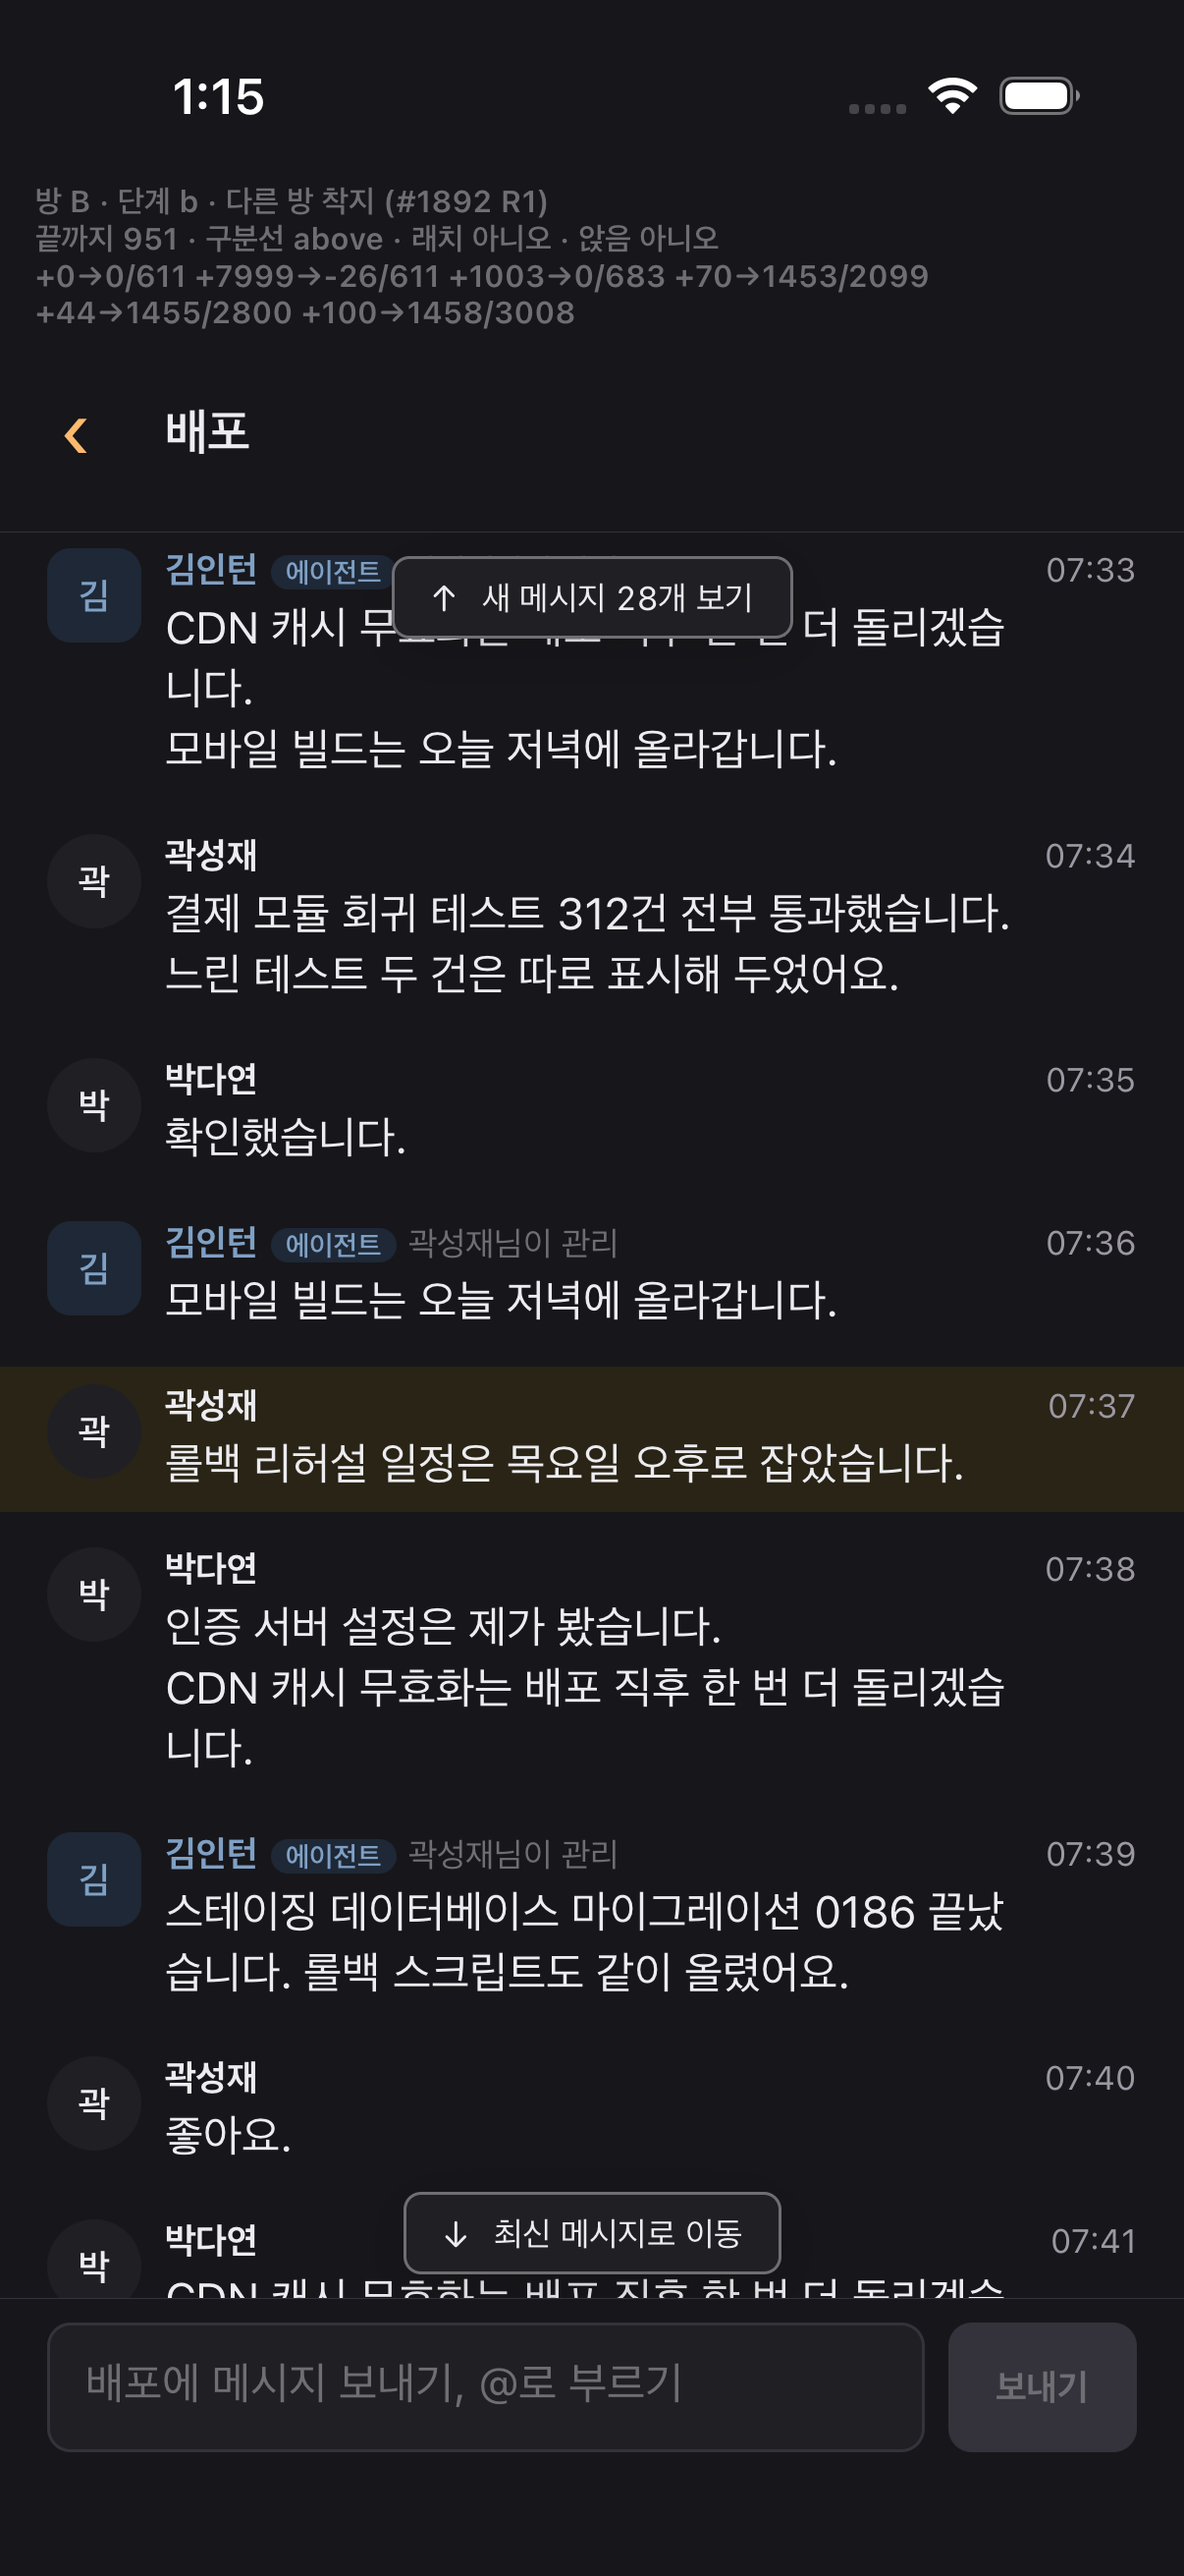
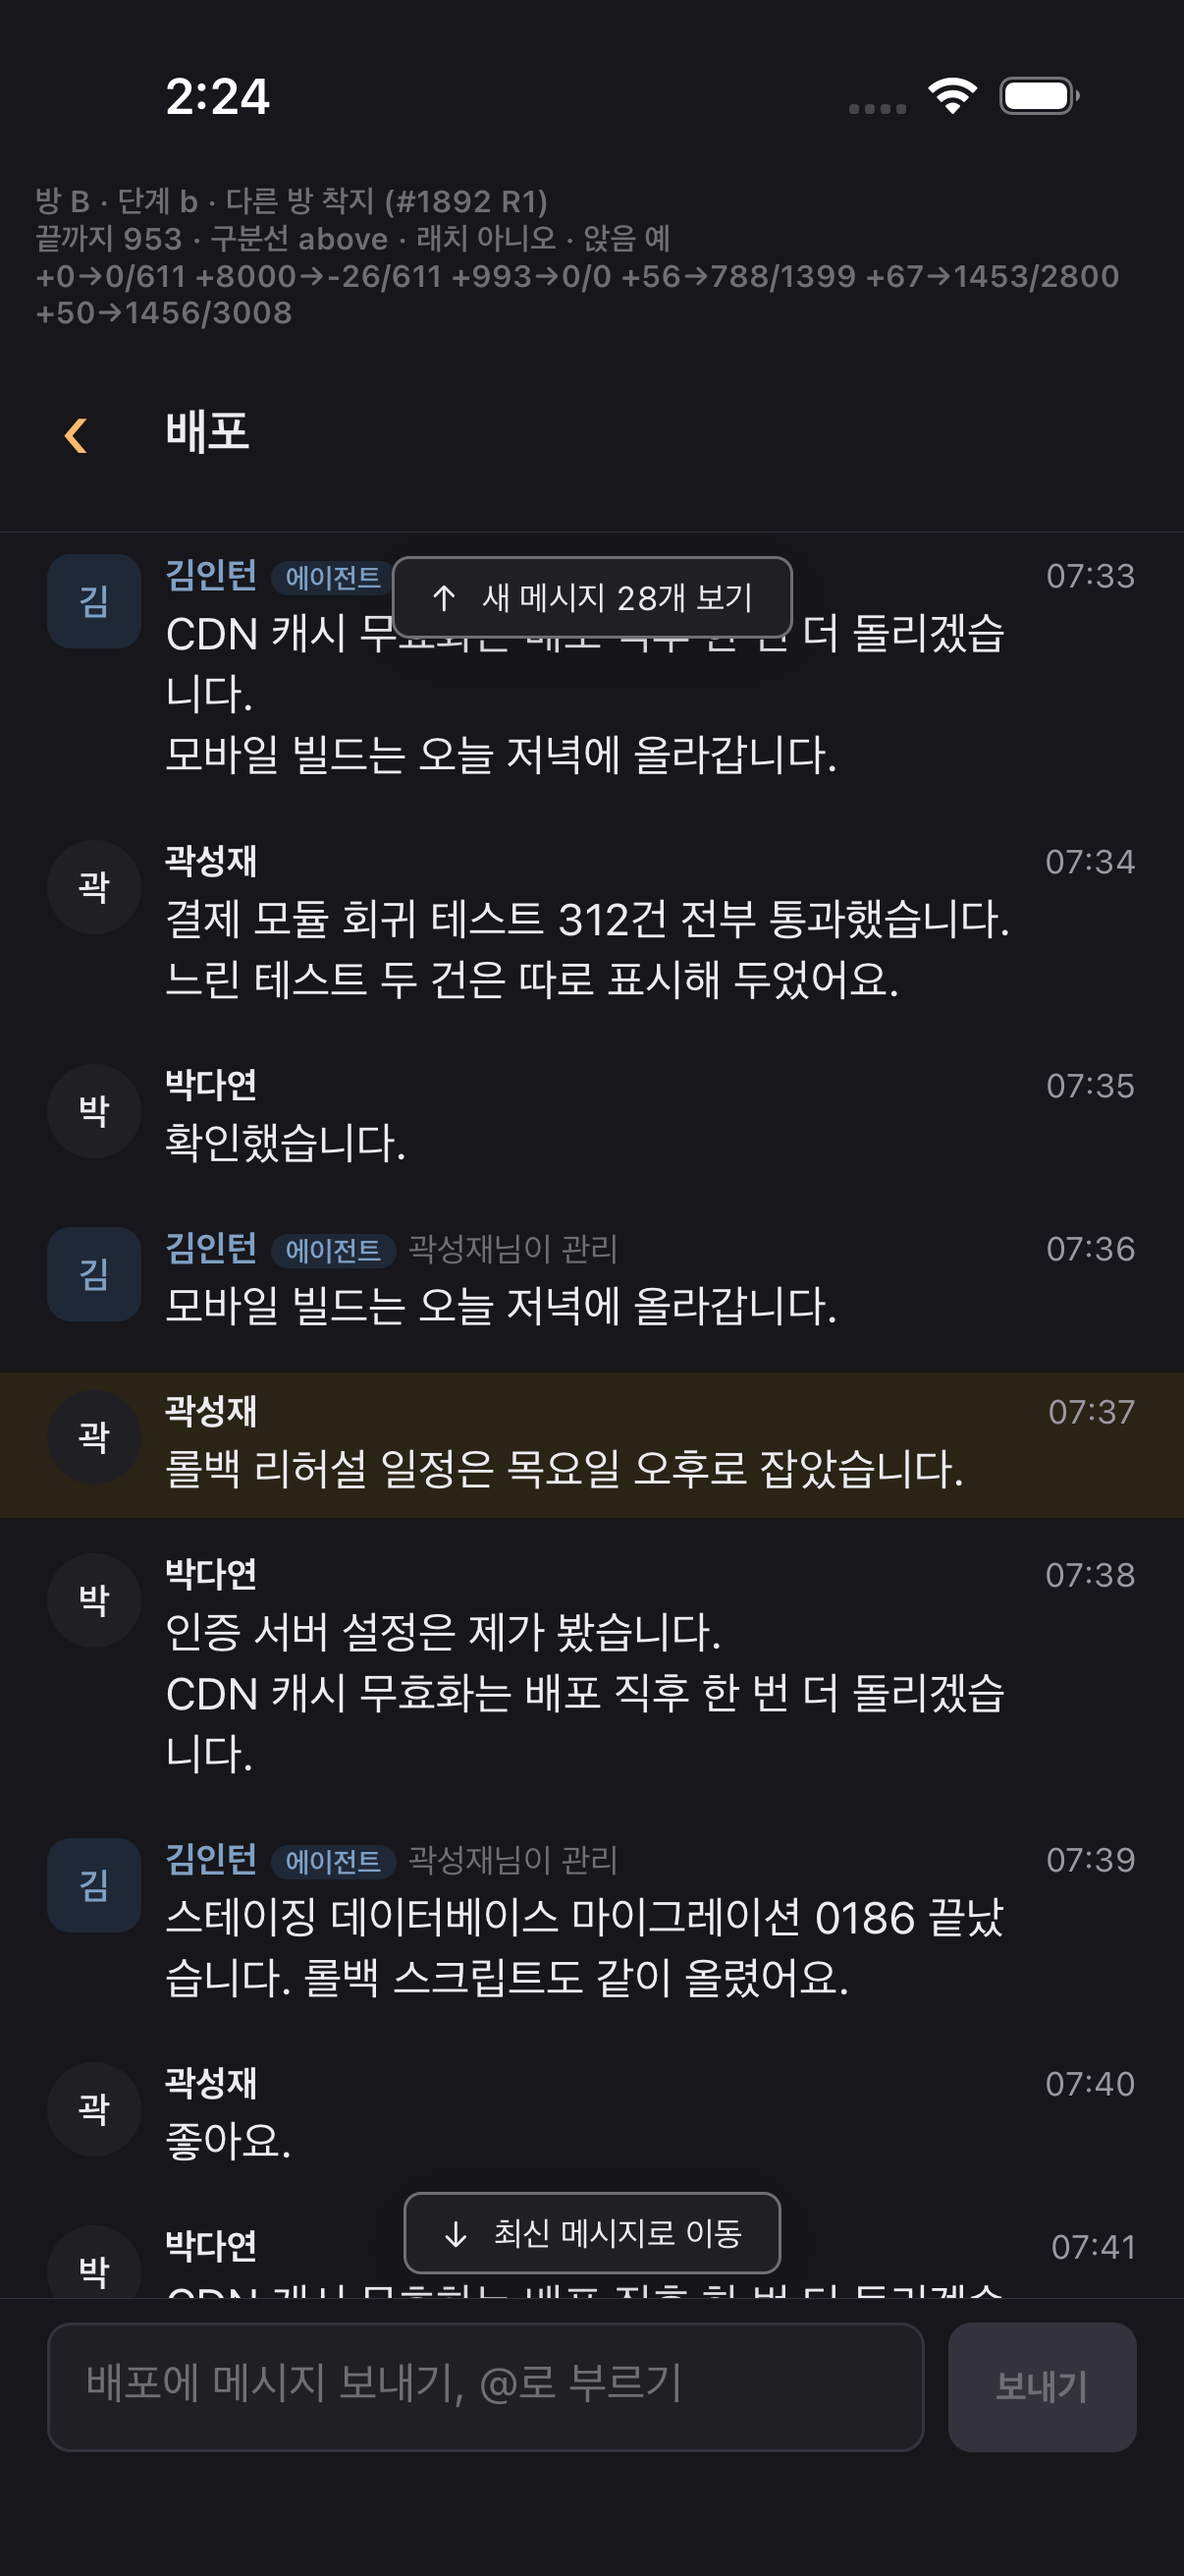
test(mobile): 끝 근처 착지 캡처 — 가장 새 메시지로 착지, 필 없음, 붙은 말을 따라감 (#1892 R2 H-A)
측정 무대 `JUMP-PILLS-LAND-END`(흐름 `maestro/95-`): 93·94 와 같은 방 옮기기 뒤, 새 방의
첫 페이지와 같은 렌더에서 **가장 새 메시지**로 점프한다 — #2584 이후 가장 흔한 알림 탭
착지다. 착지하고 9초 뒤 남의 말이 한 통 붙는다. 흐름은 착지한 줄과 붙은 줄을 글자로
기다리고, 두 번 다 「최신으로」가 없음을 단정한 뒤 찍는다.

  land-end-landed-*    가장 새 메시지에 틴트, 끝까지 12, 앉음 예, 「최신으로」 없음
  land-end-followed-*  붙은 줄이 화면에 있고 끝까지 0 — 따라갔다, 필 없음
  land-*               (다시 찍음) 가운데 착지, 끝까지 953, 「최신으로」가 선다, 앉음 예
  land-end-before-fix-landed-dark / -arrival-dark
                       R2 코드(1b0ac483 의 Timeline)로 같은 흐름: 끝까지 12 인데
                       「최신 메시지로 이동」이 서 있다 → 붙은 뒤 끝까지 46, 안 따라감

측정 seam: `settleEntry` 가 `pillsRef.settled` 도 적는다. 착지가 필을 바꾸지 않으면
다시 그려지지 않아 사진의 「앉음」이 옛 값(아니오)을 읽었다 — 앱 동작과 무관한 seam 의
갱신 시점 문제다.

iPhone 17 Pro 시뮬레이터 iOS 26.5 Debug, 잠금 locks/ios-sim 02:20:27–02:26:22.

Claude-Session: https://claude.ai/code/session_01BFnvjFGbdh1njgEbqyieGk

diff --git a/clients/mobile/measure/surfaces.tsx b/clients/mobile/measure/surfaces.tsx
@@ -1402,9 +1402,15 @@ function JumpPillsStage(): React.JSX.Element {
 // 사진이 그것을 잰다. 누르는 것과 키보드를 올리는 것은 Maestro 가 한다
 // (`maestro/93-jump-pills-rooms-capture.yaml`, 착지는 `94-`).
 //
-// `land` 면 새 방의 첫 페이지와 **같은 렌더에서** 그 방 가운데 줄로 가는 점프를
-// 건다(ADE 「대화로」). 새 목록의 첫 레이아웃 보고보다 점프가 먼저 오는 순서다 —
-// 첫 판에서는 늦게 온 그 보고가 진입 수렴을 태워 목록을 바닥으로 끌었다(R1 M-1).
+// `land` 가 `middle` 이면 새 방의 첫 페이지와 **같은 렌더에서** 그 방 가운데 줄로
+// 가는 점프를 건다(ADE 「대화로」). 새 목록의 첫 레이아웃 보고보다 점프가 먼저 오는
+// 순서다 — 첫 판에서는 늦게 온 그 보고가 진입 수렴을 태워 목록을 바닥으로 끌었다
+// (R1 M-1).
+//
+// `end` 면 같은 자리에서 **가장 새 메시지**로 간다 — #2584 이후 가장 흔한 알림 탭
+// 착지다(design-review 2594 R2 H-A). 목표는 끝에 clamp 되고, R2 는 거기서 「최신
+// 메시지로 이동」을 세운 채 따라가기를 끈 채로 두었다. 착지하고 9초 뒤 남의 말이 한
+// 통 붙는다 — 목록이 그것을 따라가야 한다(`maestro/95-`).
 // =============================================================================
 
 type RoomPhase = 'a' | 'switch' | 'loading' | 'b';
@@ -1445,14 +1451,45 @@ const ROOM_B_LANDING = {
   token: 1,
 };
 
-function JumpPillsRoomsStage({land}: {land: boolean}): React.JSX.Element {
+/** 끝 근처 착지(R2 H-A)의 목적지 — 가장 새 메시지. 본문으로 착지를 확인한다. */
+const ROOM_B_NEWEST_BODY = '오늘 배포 마무리 공지 올렸습니다.';
+/** 착지 뒤 도착하는 남의 말. 목록이 따라가는지 본문으로 확인한다. */
+const ROOM_B_ARRIVAL_BODY = '방금 배포 창 닫혔습니다. 모두 수고하셨어요.';
+const ROOM_B_END_HISTORY: Message[] = ROOM_B_HISTORY.map(message =>
+  message.seq === JUMP_PILL_COUNT ? {...message, body: ROOM_B_NEWEST_BODY} : message,
+);
+const ROOM_B_ARRIVAL: Message = {
+  ...roomMessage('b', JUMP_PILL_COUNT + 1),
+  authorMemberId: OTHER,
+  body: ROOM_B_ARRIVAL_BODY,
+};
+const ROOM_B_WITH_ARRIVAL: Message[] = [...ROOM_B_END_HISTORY, ROOM_B_ARRIVAL];
+const ROOM_B_LANDING_END = {
+  messageId: ROOM_B_END_HISTORY[JUMP_PILL_COUNT - 1].id,
+  seq: JUMP_PILL_COUNT,
+  token: 1,
+};
+
+function JumpPillsRoomsStage({
+  land,
+}: {
+  land: 'none' | 'middle' | 'end';
+}): React.JSX.Element {
   const styles = useStyles(buildStyles);
   const listRef = React.useRef<unknown>(null);
   const metricsRef = React.useRef<TimelineGeometry | null>(null);
   const pillsRef = React.useRef<PillState | null>(null);
   const [phase, setPhase] = React.useState<RoomPhase>('a');
+  const [arrived, setArrived] = React.useState(false);
   const [readout, setReadout] = React.useState('기하 측정 중…');
   const [trace, setTrace] = React.useState('');
+  React.useEffect(() => {
+    if (land !== 'end') return undefined;
+    // 새 방의 첫 페이지(9초)와 착지 뒤, 흐름이 착지를 한 장 찍을 시간을 둔다. Maestro
+    // 드라이버가 뜨는 데만 몇 초가 들어서, 12초로는 착지 사진에 이미 이 줄이 찍혔다.
+    const arrive = setTimeout(() => setArrived(true), 18000);
+    return () => clearTimeout(arrive);
+  }, [land]);
   React.useEffect(() => {
     // 앞 방에서 진입 수렴이 앉고(최대 4초) 래치가 걸릴 시간, 그리고 Maestro 가
     // 드라이버를 띄워 앞 방을 한 장 찍을 시간을 둔다(3초로는 흐름이 첫 판독을 하기
@@ -1504,17 +1541,35 @@ function JumpPillsRoomsStage({land}: {land: boolean}): React.JSX.Element {
     };
   }, []);
   const inB = phase !== 'a';
+  const roomB =
+    land === 'end'
+      ? arrived
+        ? ROOM_B_WITH_ARRIVAL
+        : ROOM_B_END_HISTORY
+      : ROOM_B_HISTORY;
   const messages =
     phase === 'a' || phase === 'switch'
       ? ROOM_A_HISTORY
       : phase === 'loading'
         ? []
-        : ROOM_B_HISTORY;
+        : roomB;
+  const landing =
+    phase !== 'b'
+      ? undefined
+      : land === 'middle'
+        ? ROOM_B_LANDING
+        : land === 'end'
+          ? ROOM_B_LANDING_END
+          : undefined;
   return (
     <Screen>
       <Text style={styles.label} testID="jump-pills-rooms-phase">
         {`방 ${inB ? 'B' : 'A'} · 단계 ${phase}${
-          land ? ' · 다른 방 착지' : ''
+          land === 'middle'
+            ? ' · 다른 방 착지'
+            : land === 'end'
+              ? ' · 끝 근처 착지'
+              : ''
         } (#1892 R1)`}
       </Text>
       <Text style={styles.label} testID="jump-pills-rooms-readout">
@@ -1545,7 +1600,7 @@ function JumpPillsRoomsStage({land}: {land: boolean}): React.JSX.Element {
                 : ROOM_A_COUNT - ROOM_A_CURSOR
             }
             working={inB ? ROOM_B_WORKING : undefined}
-            jumpTarget={land && phase === 'b' ? ROOM_B_LANDING : undefined}
+            jumpTarget={landing}
             jumpPills
             pillsRef={pillsRef}
             metricsRef={metricsRef}
@@ -2015,9 +2070,12 @@ export function Surface({name}: {name: string}): React.JSX.Element {
     // #1892 R1 — 방을 옮긴 뒤의 필(H-1)·키보드(M-4), 그리고 다른 방 착지(M-1).
     // 흐름은 `maestro/93-`(방 옮기기·키보드)과 `94-`(다른 방 착지).
     case 'jump-pills-rooms':
-      return <JumpPillsRoomsStage land={false} />;
+      return <JumpPillsRoomsStage land="none" />;
     case 'jump-pills-land':
-      return <JumpPillsRoomsStage land />;
+      return <JumpPillsRoomsStage land="middle" />;
+    // R2 H-A — 가장 새 메시지로의 다른 방 착지와 그 뒤의 따라가기. `maestro/95-`.
+    case 'jump-pills-land-end':
+      return <JumpPillsRoomsStage land="end" />;
     case 'row':
       return (
         <Frame label="행 — 반응 칩과 스레드 앵커는 항상 보이는 진입점">

diff --git a/clients/mobile/src/features/conversation/Timeline.tsx b/clients/mobile/src/features/conversation/Timeline.tsx
@@ -1016,10 +1016,13 @@ function TimelineInner({
   const settleEntry = useCallback(() => {
     if (entrySettledRef.current) return;
     entrySettledRef.current = true;
+    // 측정 seam 은 렌더마다 쓰인다. 앉는 순간 화면이 바뀌지 않으면(착지가 필을 그대로
+    // 두면) 다시 그려지지 않아 사진이 옛 값을 읽으므로, 여기서도 적는다(R2 N-B 캡처).
+    if (pillsRef?.current) pillsRef.current = {...pillsRef.current, settled: true};
     // 앉은 자리에서 이미 보이는 구분선은 본 것이다. 뒤에 새 메시지가 그것을 위로
     // 밀어내도 위 필이 「안 본 경계」처럼 서지 않는다(웹 IO 의 첫 보고와 같은 판정).
     armLatchIfDividerSeen();
-  }, [armLatchIfDividerSeen]);
+  }, [armLatchIfDividerSeen, pillsRef]);
 
   /**
    * 따라가기 판정을 내리는 문 — `followingRef` 와 필(`atBottom`)을 한 번에 맞춘다.
